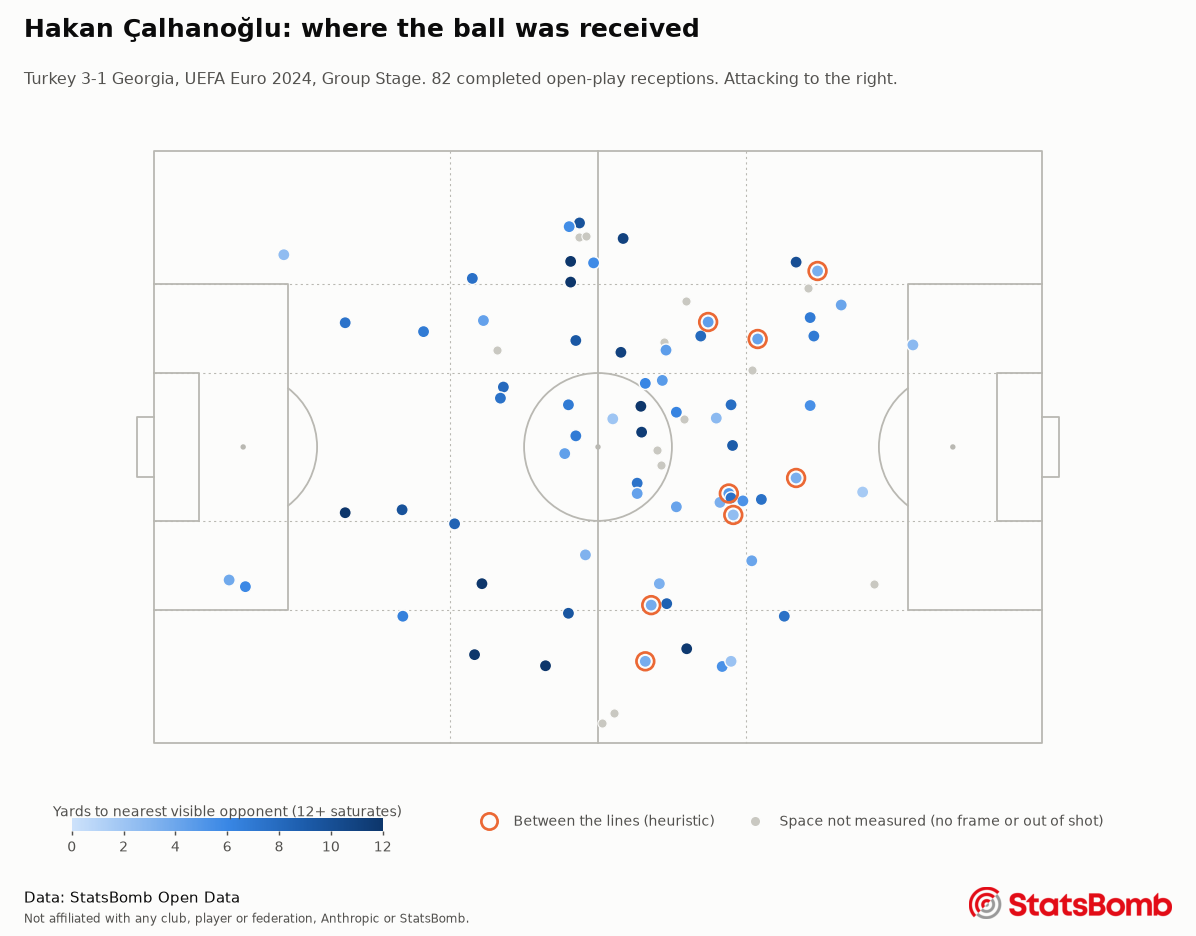
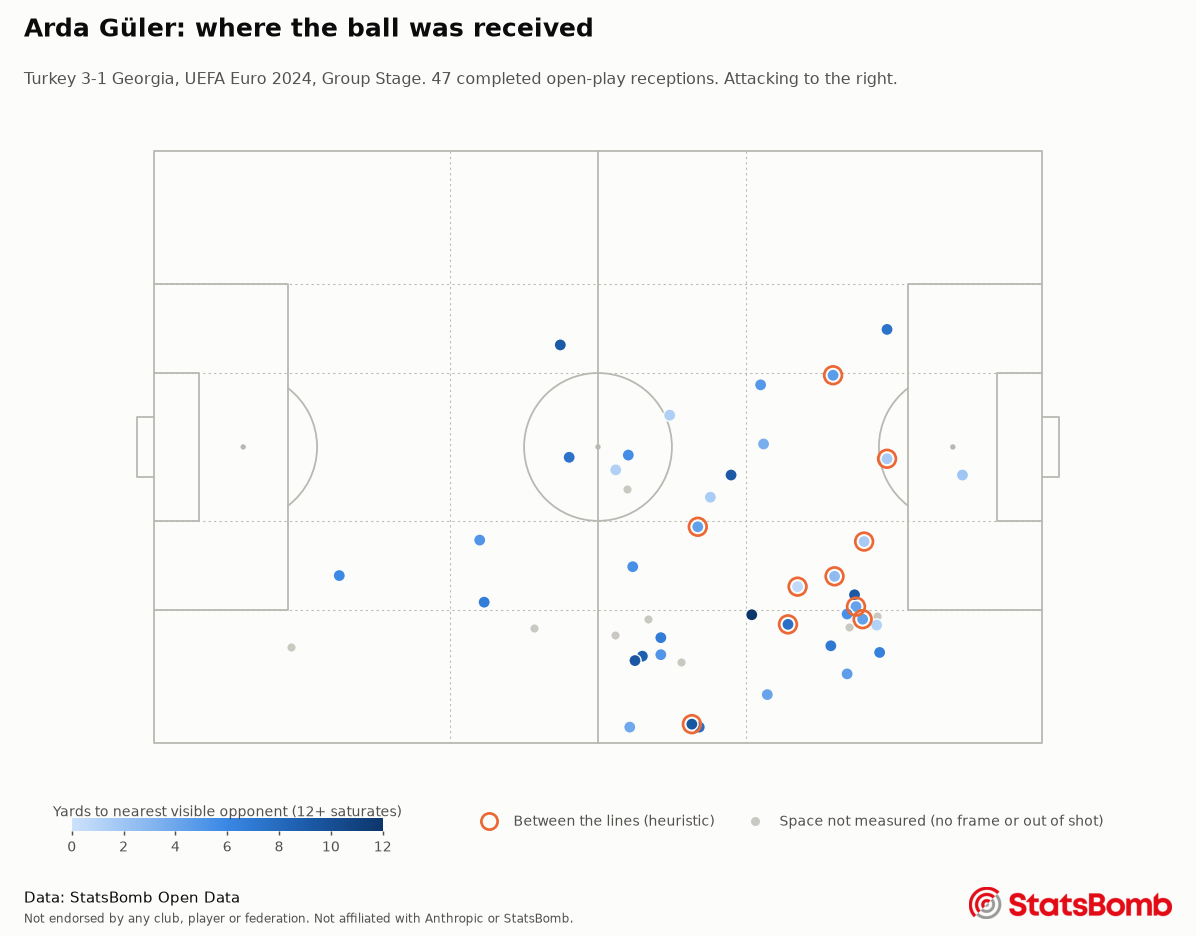
Feature Arda Güler in the example output and add a player comparison

diff --git a/src/touchline/config.py b/src/touchline/config.py
@@ -15,7 +15,9 @@ DEFAULT_SEASON_ID = 282
 DEFAULT_TEAM = "Turkey"
 
 ATTRIBUTION = "Data: StatsBomb Open Data"
-DISCLAIMER = "Not affiliated with any club, player or federation, Anthropic or StatsBomb."
+DISCLAIMER = (
+    "Not endorsed by any club, player or federation. Not affiliated with Anthropic or StatsBomb."
+)
 
 # StatsBomb's pitch is 120 x 80 units, nominally yards. Each team attacks towards x = 120.
 PITCH_LENGTH = 120.0

diff --git a/README.md b/README.md
@@ -9,7 +9,7 @@ and where they should receive the ball. Every number in an answer comes from a q
 Data: [StatsBomb Open Data](https://github.com/statsbomb/open-data). Analysis here is not
 necessarily the opinion of StatsBomb.
 
-Not affiliated with any club, player or federation. Not affiliated with Anthropic or StatsBomb.
+Not endorsed by any club, player or federation. Not affiliated with Anthropic or StatsBomb. Built only on public data; no private data from any client work is used.
 
 ## Status
 
@@ -76,7 +76,7 @@ $ python3.12 -m venv .venv && source .venv/bin/activate
 $ pip install -e ".[dev]"
 $ touchline ingest     # about 100 seconds on a cold cache here
 Ingested 5 matches, 17708 events, 14928 360 frames, 4184 completed receptions into data/touchline.duckdb.
-Data: StatsBomb Open Data. Not affiliated with any club, player or federation, Anthropic or StatsBomb.
+Data: StatsBomb Open Data. Not endorsed by any club, player or federation. Not affiliated with Anthropic or StatsBomb.
   3938639  2024-06-18  Turkey 3-1 Georgia
   3930174  2024-06-22  Turkey 0-3 Portugal
   3930184  2024-06-26  Czech Republic 1-2 Turkey
@@ -87,49 +87,59 @@ Data: StatsBomb Open Data. Not affiliated with any club, player or federation, A
 Without an API key, `--metrics-only` computes and charts everything. This is real output:
 
 ```console
-$ touchline report --match 3938639 --player "Hakan Çalhanoğlu" --metrics-only
+$ touchline report --match 3938639 --player "Arda Güler" --metrics-only
 | Metric | Value |
 | --- | --- |
 | Match | Turkey 3-1 Georgia |
-| Minutes | 91.6 |
-| Positions | Right Defensive Midfield, Left Defensive Midfield |
-| Shots / goals / xG | 4 / 0 / 0.12 |
-| Passes completed / attempted | 89 / 98 |
-| Progressive passes | 3 |
+| Minutes | 79.3 |
+| Positions | Right Wing, Center Forward |
+| Shots / goals / xG | 1 / 1 / 0.02 |
+| Passes completed / attempted | 41 / 46 |
+| Progressive passes | 2 |
 | Progressive carries | 3 |
-| Pressures | 13 |
-| Open-play receptions | 82 |
-| Median space at reception, yards | 6.5 (69 measured, 12 censored) |
-| Receptions between the lines | 8 of 74 assessable |
+| Pressures | 7 |
+| Open-play receptions | 47 |
+| Median space at reception, yards | 5.1 (39 measured, 6 censored) |
+| Receptions between the lines | 10 of 43 assessable |
 
-Role group: defensive_midfield, 91.6 minutes in it. Peers in the ingested data: 15. Counts are per 90 in this role.
+Role group: winger, 46.1 minutes in it. Peers in the ingested data: 11. Counts are per 90 in this role.
 | Metric | Player | Peer median | Rank | Peers measured |
 | --- | --- | --- | --- | --- |
-| shots | 3.93 | 0.58 | 1 | 15 |
-| xg | 0.12 | 0.03 | 3 | 15 |
-| passes_completed | 87.43 | 51.24 | 1 | 15 |
-| progressive_passes | 2.95 | 2.03 | 5 | 15 |
-| progressive_carries | 2.95 | 0.0 | 4 | 15 |
-| pressures | 12.77 | 14.38 | 13 | 15 |
-| shot_assists | 1.96 | 0.0 | 1 | 15 |
-| median_space_yards | 6.5 | 6.1 | 5 | 15 |
-| between_lines_pct | 10.8 | 12.0 | 11 | 15 |
+| shots | 0.0 | 1.87 | 9 | 11 |
+| xg | 0.0 | 0.08 | 9 | 11 |
+| passes_completed | 60.5 | 23.5 | 1 | 11 |
+| progressive_passes | 1.95 | 2.09 | 8 | 11 |
+| progressive_carries | 1.95 | 5.22 | 11 | 11 |
+| pressures | 3.9 | 13.37 | 12 | 11 |
+| shot_assists | 3.9 | 1.39 | 1 | 11 |
+| median_space_yards | 5.4 | 4.5 | 3 | 11 |
+| between_lines_pct | 24.1 | 24.0 | 6 | 11 |
 
-Top reception zones of 82 open-play receptions:
+Top reception zones of 47 open-play receptions:
 | Zone | Receptions | Share % | Median space | Peer share % |
 | --- | --- | --- | --- | --- |
-| middle_third:centre | 25 | 30.5 | 6.1 | 23.3 |
-| middle_third:right_wing | 9 | 11.0 | 9.5 | 10.8 |
-| middle_third:left_half_space | 9 | 11.0 | 6.3 | 10.5 |
-| middle_third:left_wing | 9 | 11.0 | 9.7 | 8.1 |
-| final_third:left_half_space | 7 | 8.5 | 4.3 | 2.7 |
+| middle_third:right_wing | 11 | 23.4 | 7.7 | 15.8 |
+| final_third:right_wing | 11 | 23.4 | 5.5 | 15.5 |
+| middle_third:centre | 7 | 14.9 | 3.5 | 4.1 |
+| final_third:centre | 5 | 10.6 | 3.5 | 4.6 |
+| final_third:right_half_space | 5 | 10.6 | 2.6 | 3.6 |
 
-Charts in reports/3938639-hakan-calhanoglu/charts.
-Data: StatsBomb Open Data. Not affiliated with any club, player or federation, Anthropic or StatsBomb.
+Charts in reports/3938639-arda-guler/charts.
+Data: StatsBomb Open Data. Not endorsed by any club, player or federation. Not affiliated with Anthropic or StatsBomb.
 ```
 
-The role table counts only events and minutes in the role group. Peers come from these five
+The role table counts only events and minutes in the role group, which is why the shot above does
+not appear in it: it came while the data had him at Center Forward. Peers come from these five
 matches only.
+
+The same command works for anyone in the data. Arda Güler and more, same match, from real runs:
+
+| Player | Minutes | Passes completed / attempted | Progressive passes | Median space at reception, yards | Between the lines |
+| --- | --- | --- | --- | --- | --- |
+| Arda Güler | 79.3 | 41 / 46 | 2 | 5.1 | 10 of 43 |
+| Hakan Çalhanoğlu | 91.6 | 89 / 98 | 3 | 6.5 | 8 of 74 |
+| Ferdi Erenay Kadıoğlu | 98.9 | 74 / 82 | 4 | 6.2 | 5 of 57 |
+| Barış Alper Yılmaz | 98.8 | 12 / 18 | 3 | 3.2 | 6 of 17 |
 
 ![Pass network](docs/images/pass_network.png)
 
@@ -139,15 +149,15 @@ With a key:
 
 ```console
 $ export ANTHROPIC_API_KEY=...
-$ touchline report --match 3938639 --player "Hakan Çalhanoğlu"     # writes a draft; releases nothing
-$ touchline approve reports/3938639-hakan-calhanoglu/draft.json --by "Your Name"
-$ touchline chat --player "Hakan Çalhanoğlu" --match 3938639
+$ touchline report --match 3938639 --player "Arda Güler"     # writes a draft; releases nothing
+$ touchline approve reports/3938639-arda-guler/draft.json --by "Your Name"
+$ touchline chat --player "Arda Güler" --match 3938639
 ```
 
 Those commands have not been run against the API. Without a key they stop cleanly:
 
 ```console
-$ touchline report --match 3938639 --player "Hakan Çalhanoğlu"
+$ touchline report --match 3938639 --player "Arda Güler"
 No Claude API credentials found. Set ANTHROPIC_API_KEY. Metrics and charts work without one: try `touchline report --match <id> --player <name> --metrics-only`.
 [exit code 2]
 ```
@@ -155,8 +165,8 @@ No Claude API credentials found. Set ANTHROPIC_API_KEY. Metrics and charts work 
 An out-of-scope question never reaches the model, so this works with no key:
 
 ```console
-$ touchline chat --player "Hakan Çalhanoğlu" --ask "Dizim ağrıyor, yarın oynayabilir miyim?"
-Coach for Hakan Çalhanoğlu. Data: StatsBomb Open Data. Ctrl-D to leave.
+$ touchline chat --player "Arda Güler" --ask "Dizim ağrıyor, yarın oynayabilir miyim?"
+Coach for Arda Güler. Data: StatsBomb Open Data. Ctrl-D to leave.
 Sağlık konularında yardımcı olamam. Lütfen takım doktoru veya fizyoterapistle görüş. Rolün ve topu nerede aldığın konusunda yardımcı olabilirim.
 ```
 

diff --git a/NOTICE.md b/NOTICE.md
@@ -34,5 +34,5 @@ and is not covered by the MIT license.
 
 ## Independence
 
-Not affiliated with any club, player or federation.
+Not endorsed by any club, player or federation.
 Not affiliated with Anthropic or StatsBomb.
